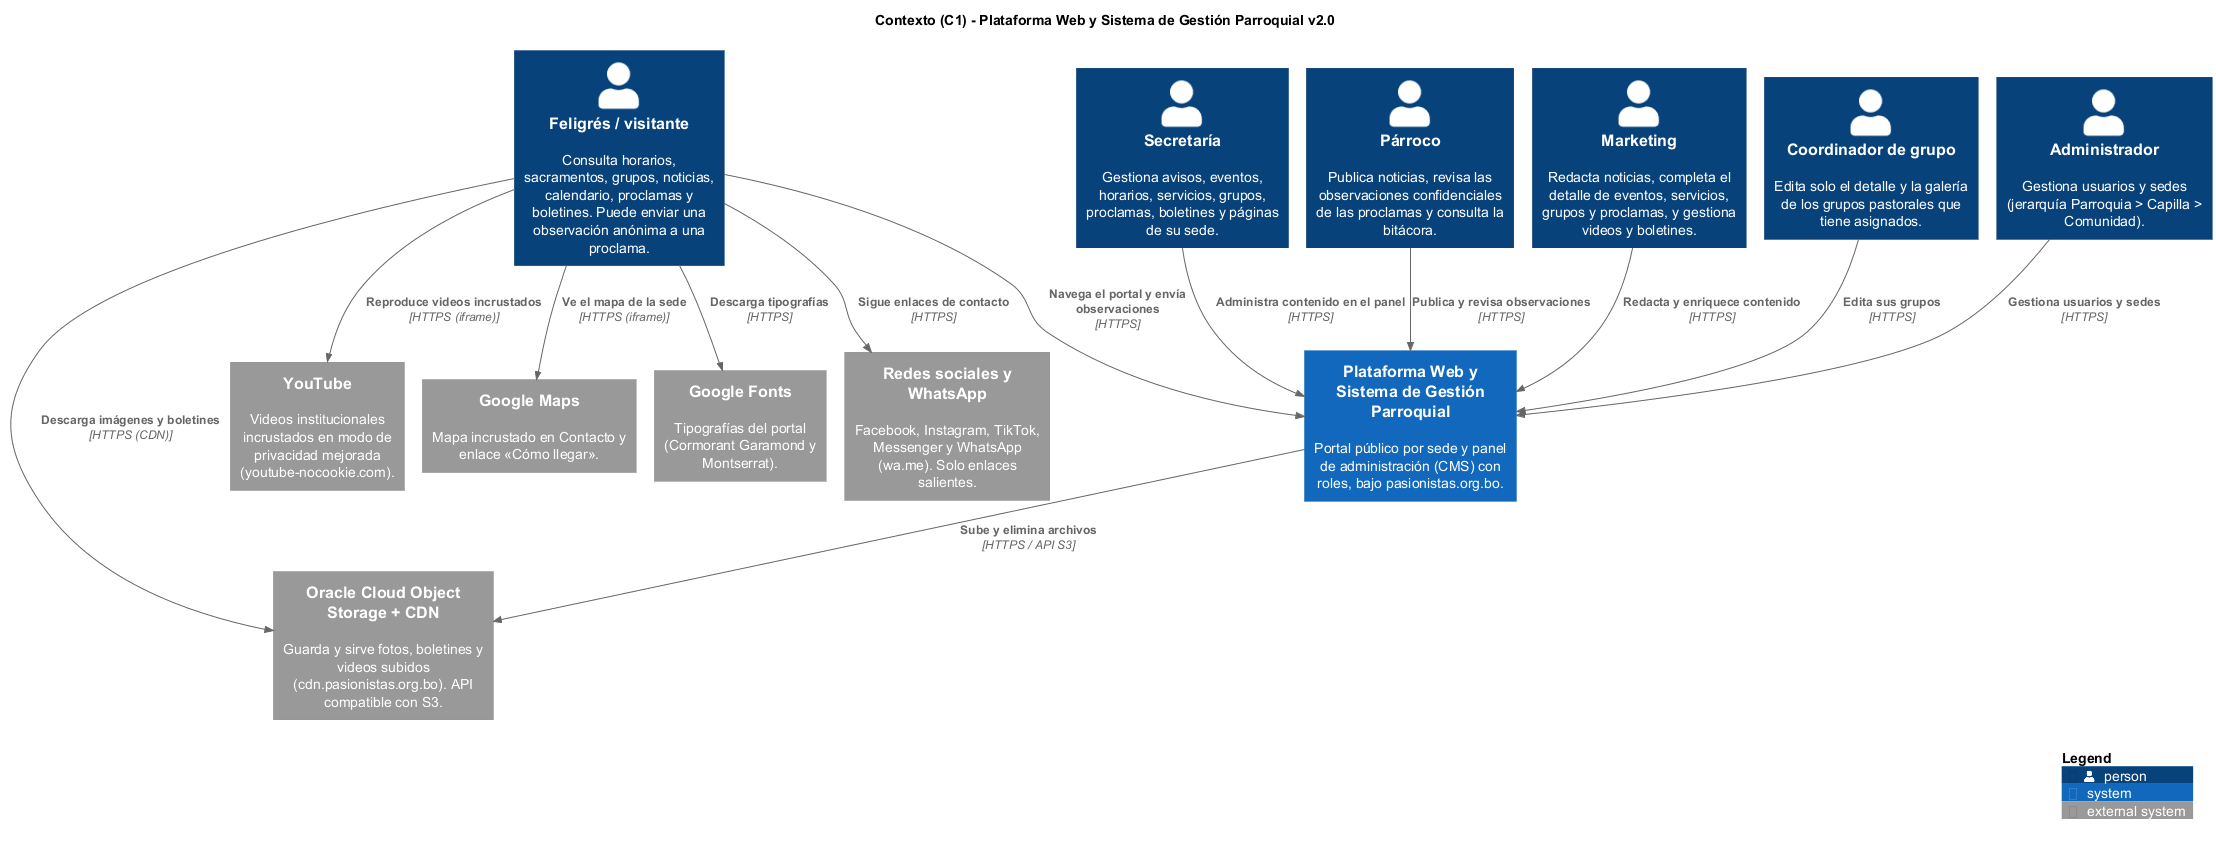
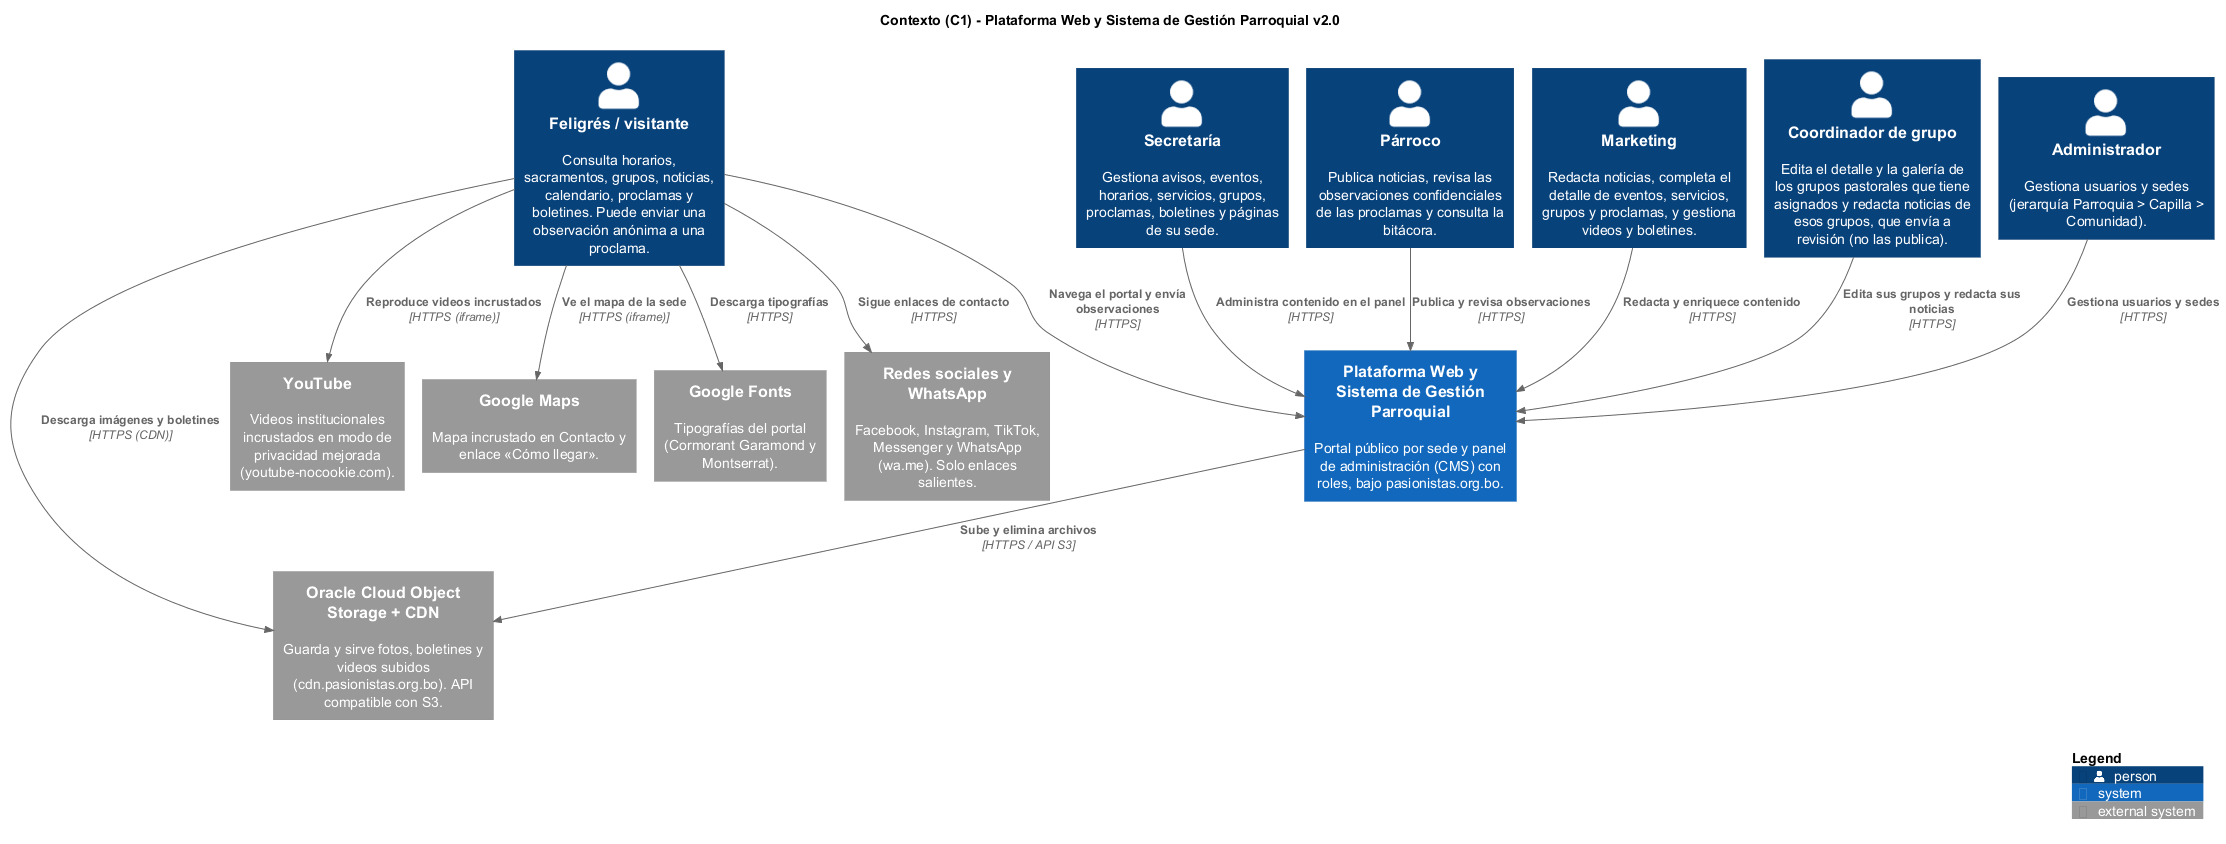
[docs] actualizar el rol coordinador en el C4 v2 tras el permiso de noticias

diff --git a/docs/arquitectura/Arquitectura C4.md b/docs/arquitectura/Arquitectura C4.md
@@ -76,7 +76,7 @@ La v1 se diseñó en septiembre, a partir del relevamiento y antes de escribir c
 
 | Elemento nuevo | Nivel | Por qué |
 |---|---|---|
-| Roles Coordinador de grupo y Administrador | C1 | El Coordinador lo pidieron los ingenieros de la parroquia (Sprint 3); el Administrador gestiona usuarios y sedes. |
+| Roles Coordinador de grupo y Administrador | C1, C3 | El Coordinador lo pidieron los ingenieros de la parroquia (Sprint 3): edita sus grupos pastorales y redacta noticias de esos grupos, que envía a revisión (PR #74). El Administrador gestiona usuarios y sedes. |
 | Google Maps y Google Fonts | C1, C2 | Los usa el portal: mapa incrustado en Contacto y tipografías institucionales. |
 | Redes sociales y WhatsApp como enlaces salientes | C1 | Reemplazan la integración con Meta: son enlaces directos, sin API. |
 | GitHub Actions (CI) | C2 | Jobs `convencion`, `backend`, `frontend` y `e2e` que protegen `main` (observación del docente). |
